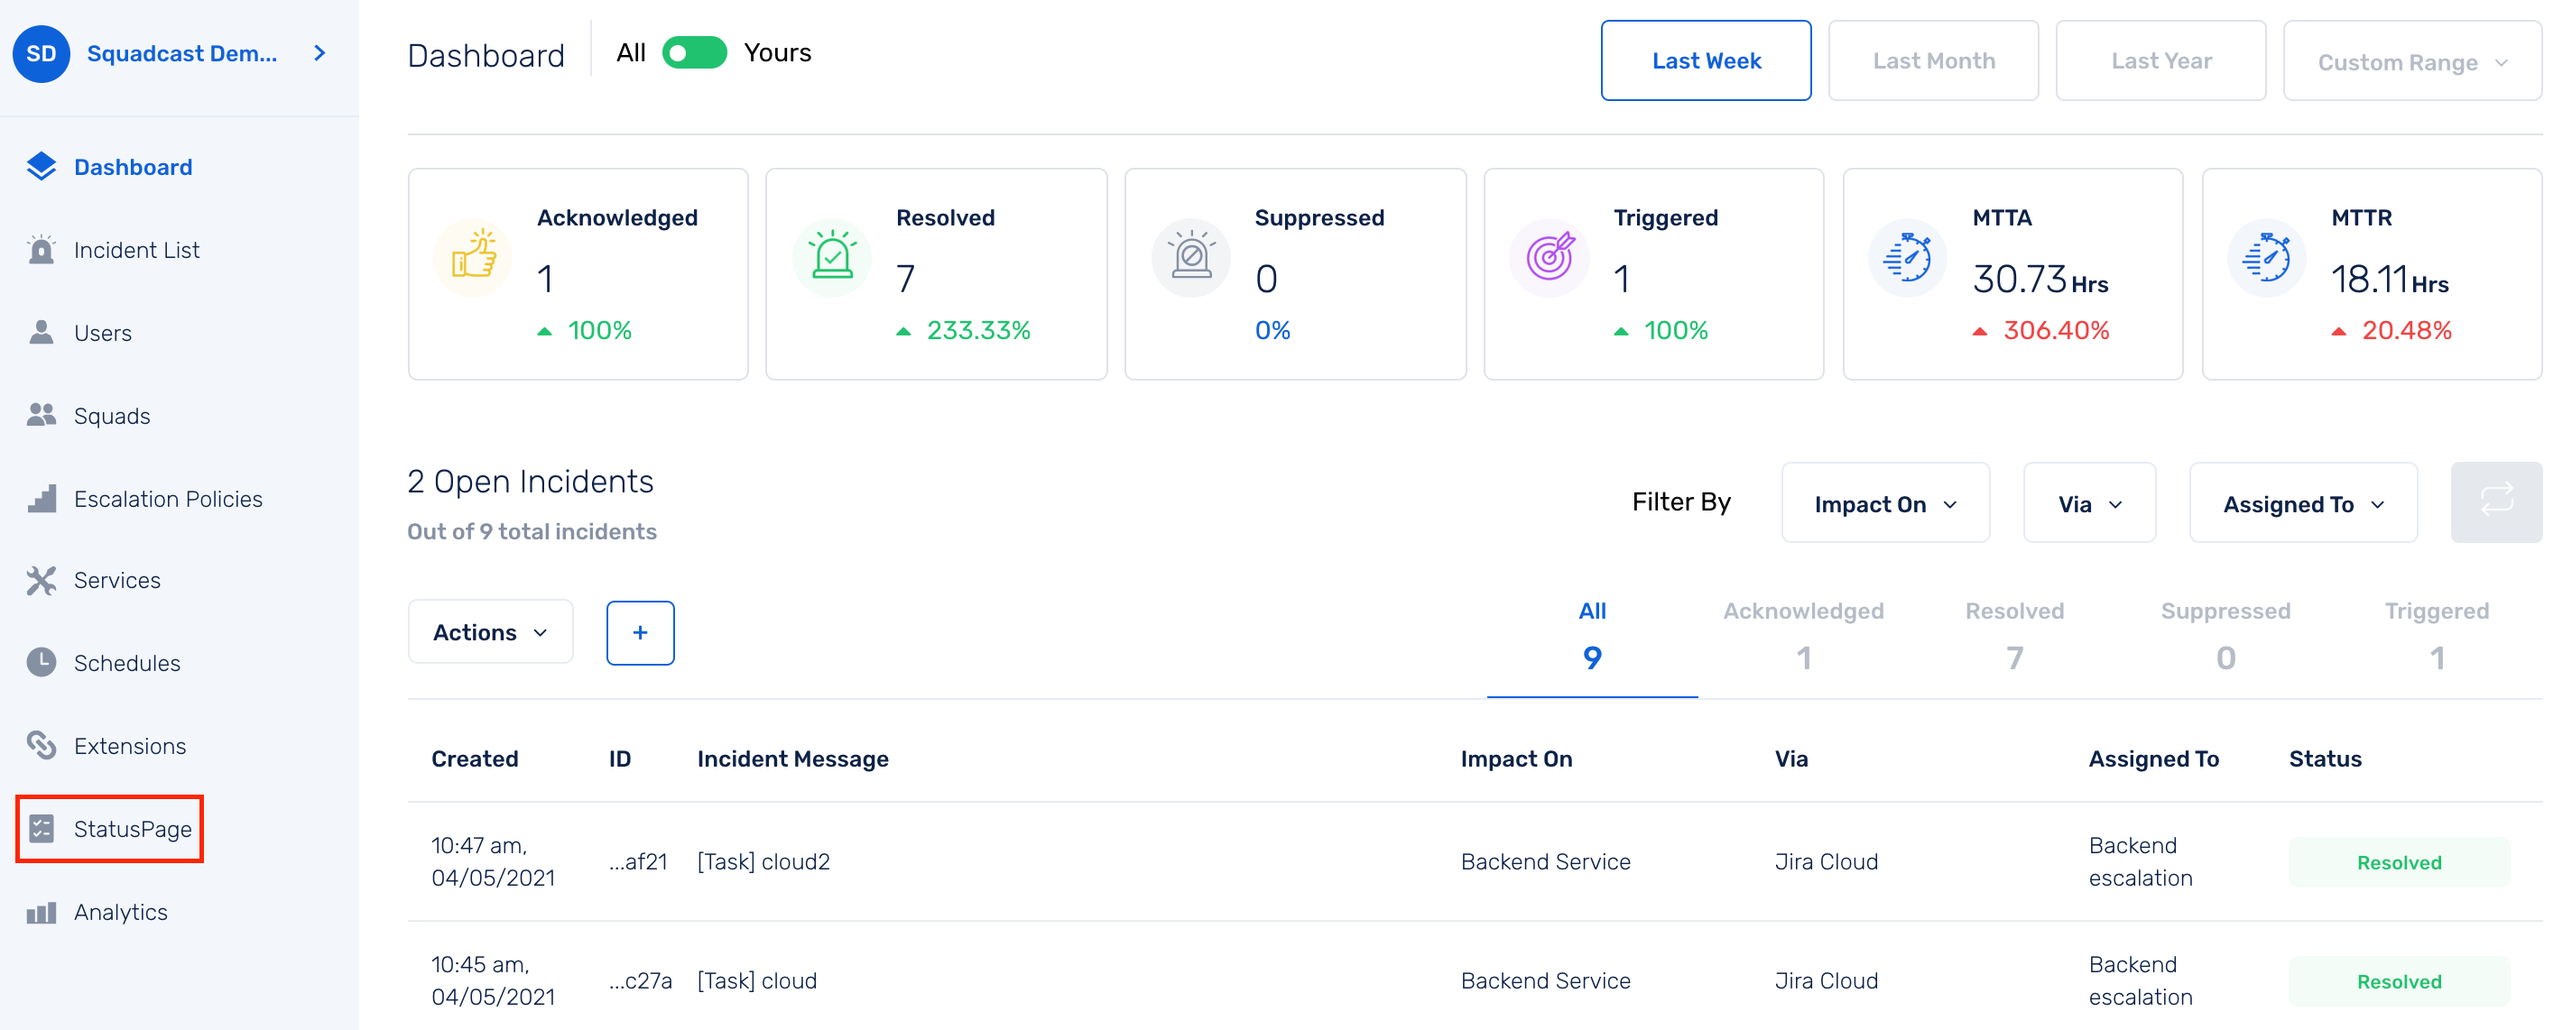
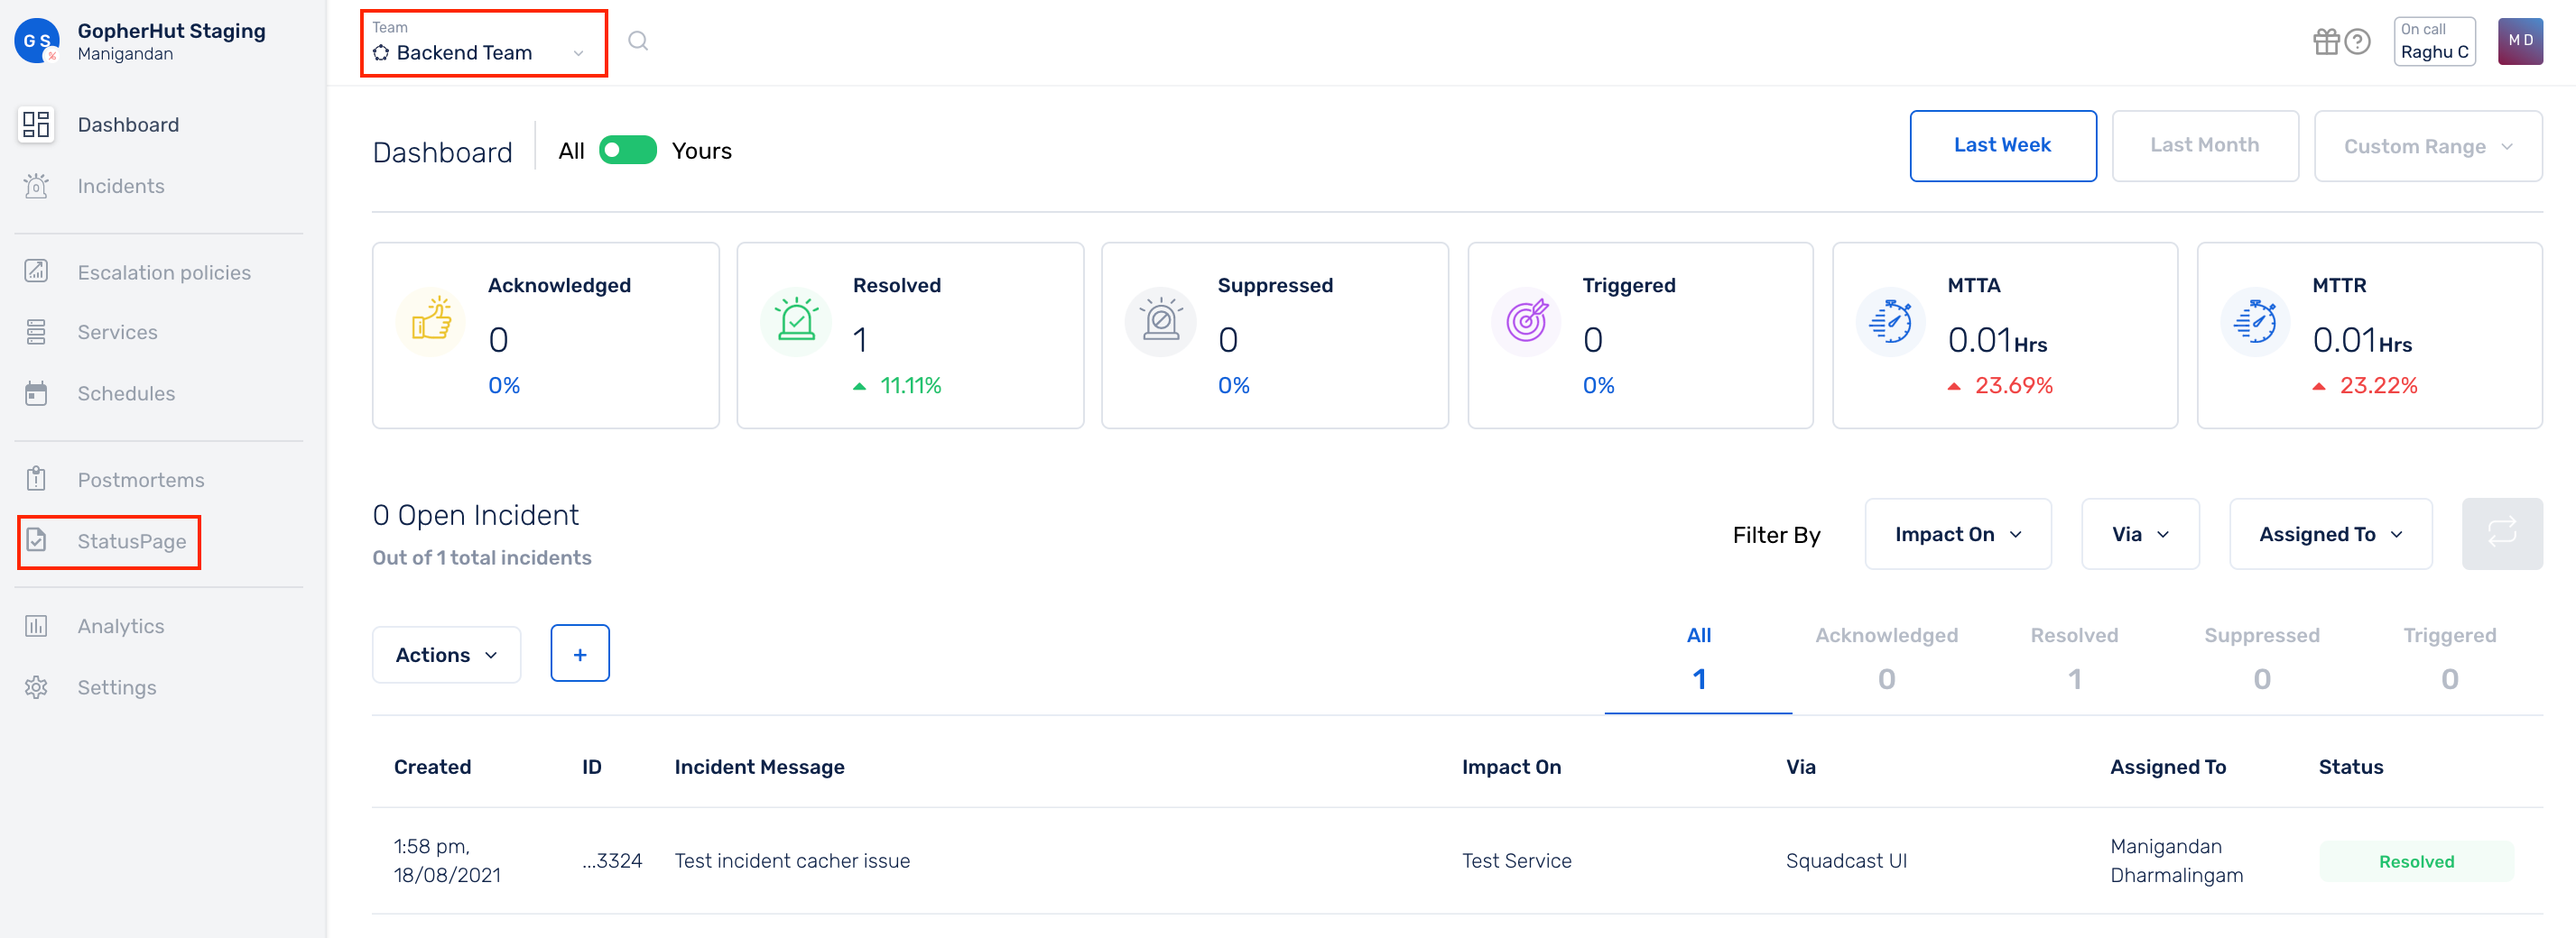
Updates to StatusPage post RBAC

diff --git a/pages/mydoc/statuspage.md b/pages/mydoc/statuspage.md
@@ -26,17 +26,25 @@ You can also display dependent Services in the StatusPage. First, configure the 
 
 You can configure the [visual themes](https://support.squadcast.com/docs/statuspage#changing-the-colour-theme) and the [terminologies](https://support.squadcast.com/docs/statuspage#configuring-service-status) for Operational (Good) and Degraded (Bad).
 
-## Create a StatusPage
+## Prerequisites
 
-**1.** On the sidebar, click on **StatusPage**
+- The User Role associated with the user in the Team must have the necessary permissions to create and manage StatusPages.
+
+- Services must be created prior to configuring a StatusPage.
+
+## Creating a StatusPage
+
+Ensure that the right Team is selected from the team picker at the top of the screen.
+
+**(1)** Navigate to **StatusPage** from the sidebar
 
 ![](images/statuspage_1_new.png)
 
-**2.** Click on the **Add Status Page** button
+**(2)** Click on the **Add Status Page** button
 
 ![](images/statuspage_2_new.png)
 
-**3 (a)** **Page Configuration**
+**(3 a)** **Page Configuration**
 - Give your StatusPage a **Name**
 - Enter the **Page Hostname** (eg: status.yourcompany.com or www.yourcompanystatus.com) where you want to host the StatusPage
 - Copy the `CNAME` information
@@ -44,14 +52,14 @@ You can configure the [visual themes](https://support.squadcast.com/docs/statusp
 
 ![](images/statuspage_3_new.png)
 
-**3 (b)** **Service Configuration**
+**(3 b)** **Service Configuration**
 - Select the Services which you want to display in your StatusPage and provide a suitable _Alias_ for them
-- You can also enable the checkbox **Select all services** to display your entire list of Services on the StatusPage
+- You can also enable the checkbox **Select all services** to display your entire list of Services in your Team on the StatusPage
 - Click on **Save & Create** to create the StatusPage
 
 ![](images/statuspage_4_new.png)
 
-**Note**: If the selected Service is dependent on other Services, then its dependent Services will also automatically be displayed in the StatusPage.
+**Note:** If the selected Service is dependent on other Services, then its dependent Services will also automatically be displayed in the StatusPage.
 
 ![](images/statuspage_5_new.png)
 
@@ -125,7 +133,7 @@ You can see the changes reflecting as shown below.
 
 ### Public StatusPage
 
-Now that you are done with all the customizations, it's time to make the StatusPage `public`, so all your customers/stakeholders/end users can view it.
+Now that you are done with all the customizations, it's time to make the StatusPage `public`, so all your customers/stakeholders/members of other Teams in your Organization/end users can view it.
 
 To make a StatusPage `public`, go to **Edit** and check the **Make Public** check box as shown below.
 
@@ -137,7 +145,7 @@ Now, anyone can publicly view the status page using the Public URL (Hostname URL
 
 ### Private StatusPage
 
-If you do not check the **Make Public** box in the **Edit** dropdown, your StatusPage will be `Private` to your team members on Squadcast only.
+If you do not check the **Make Public** box in the **Edit** dropdown, your StatusPage will be `Private` to the **members of your Team only**.
 
 ![](images/statuspage_29_new.png)
 
@@ -146,11 +154,9 @@ If you do not check the **Make Public** box in the **Edit** dropdown, your Statu
 
 ![](images/statuspage_32_new.png)
 
-- You can also share the Squadcast URL (indicated by the green box) of the Private StatusPage with users of your account to easily access the StatusPage (with an added user login step, if they are not already logged in to Squadcast)
+- You can also share the Squadcast URL (indicated by the green box) of the Private StatusPage with members of your Team to easily access the StatusPage (with an added user login step, if they are not already logged in to Squadcast)
 
 ![](images/statuspage_32_new.png)
-
-- You can also share the Squadcast URL (indicated by the green box) of the Private StatusPage with users of your account to easily access the StatusPage (with an added user login step, if they are not already logged in to Squadcast)
 
 Whenever there is an incident for a displayed Service, that status of the Service will be marked as Degraded/Bad.
 You can post updates to the StatusPage for the incident with **different statuses**. 
